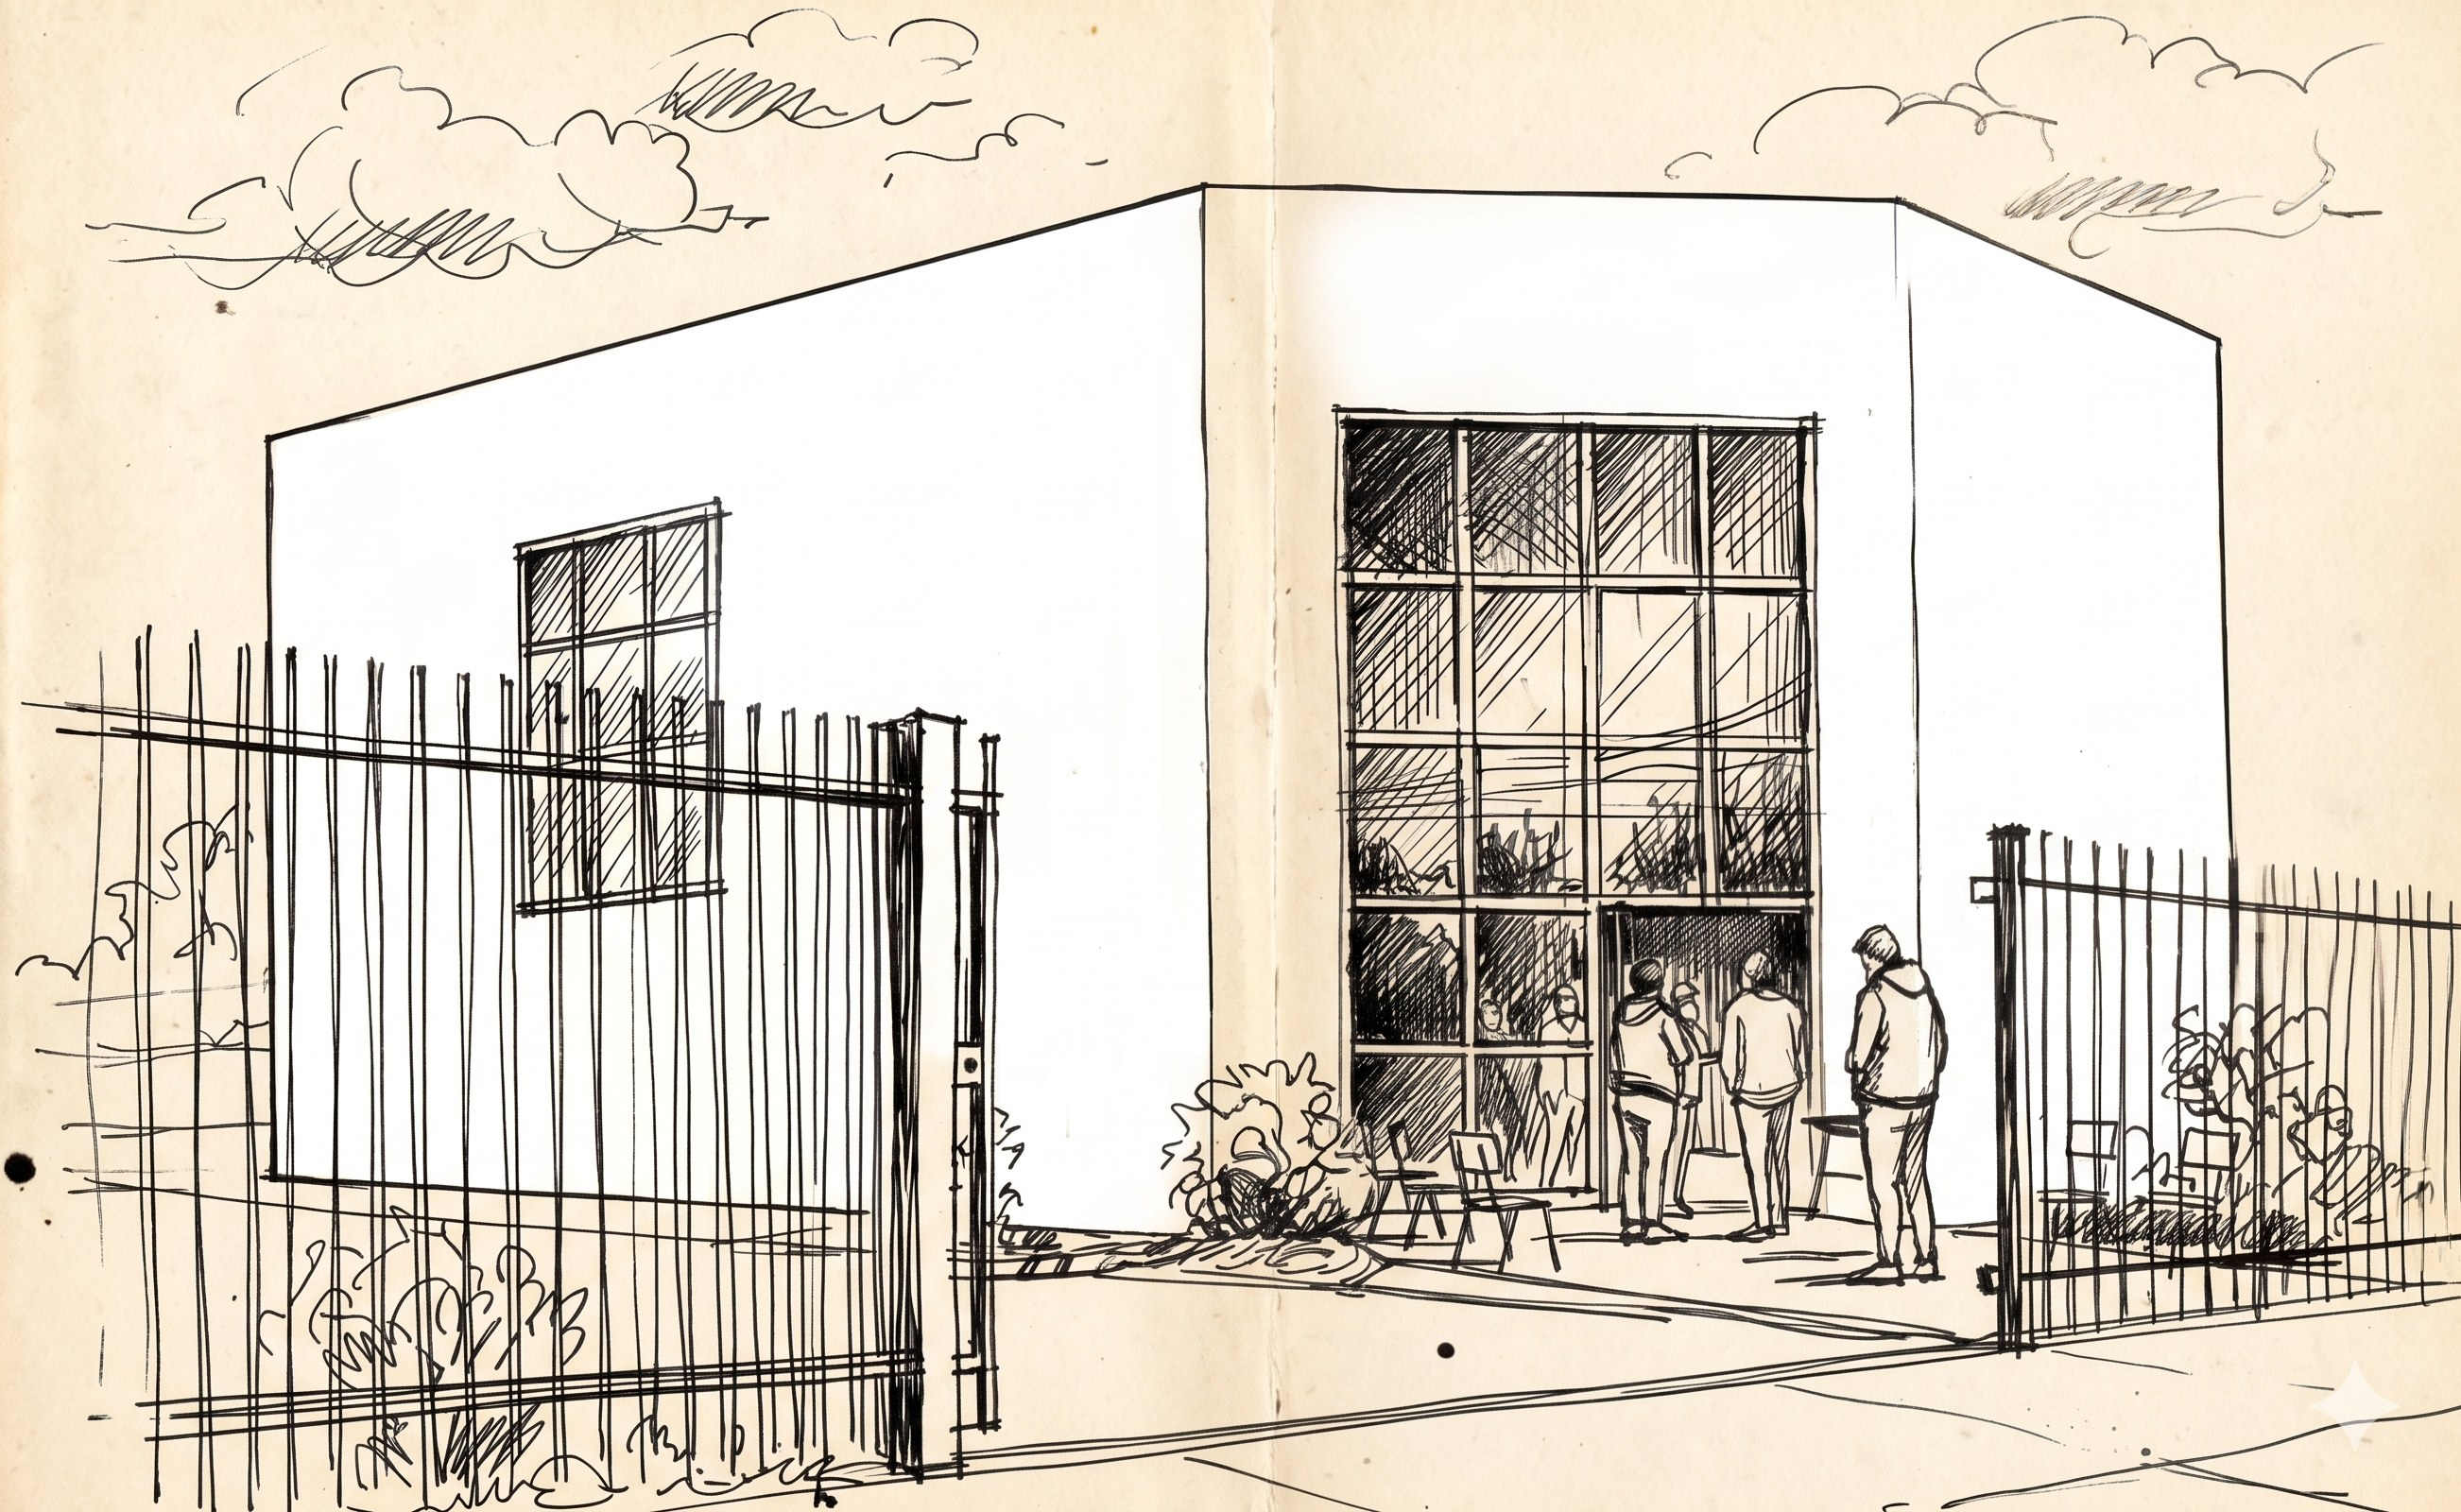
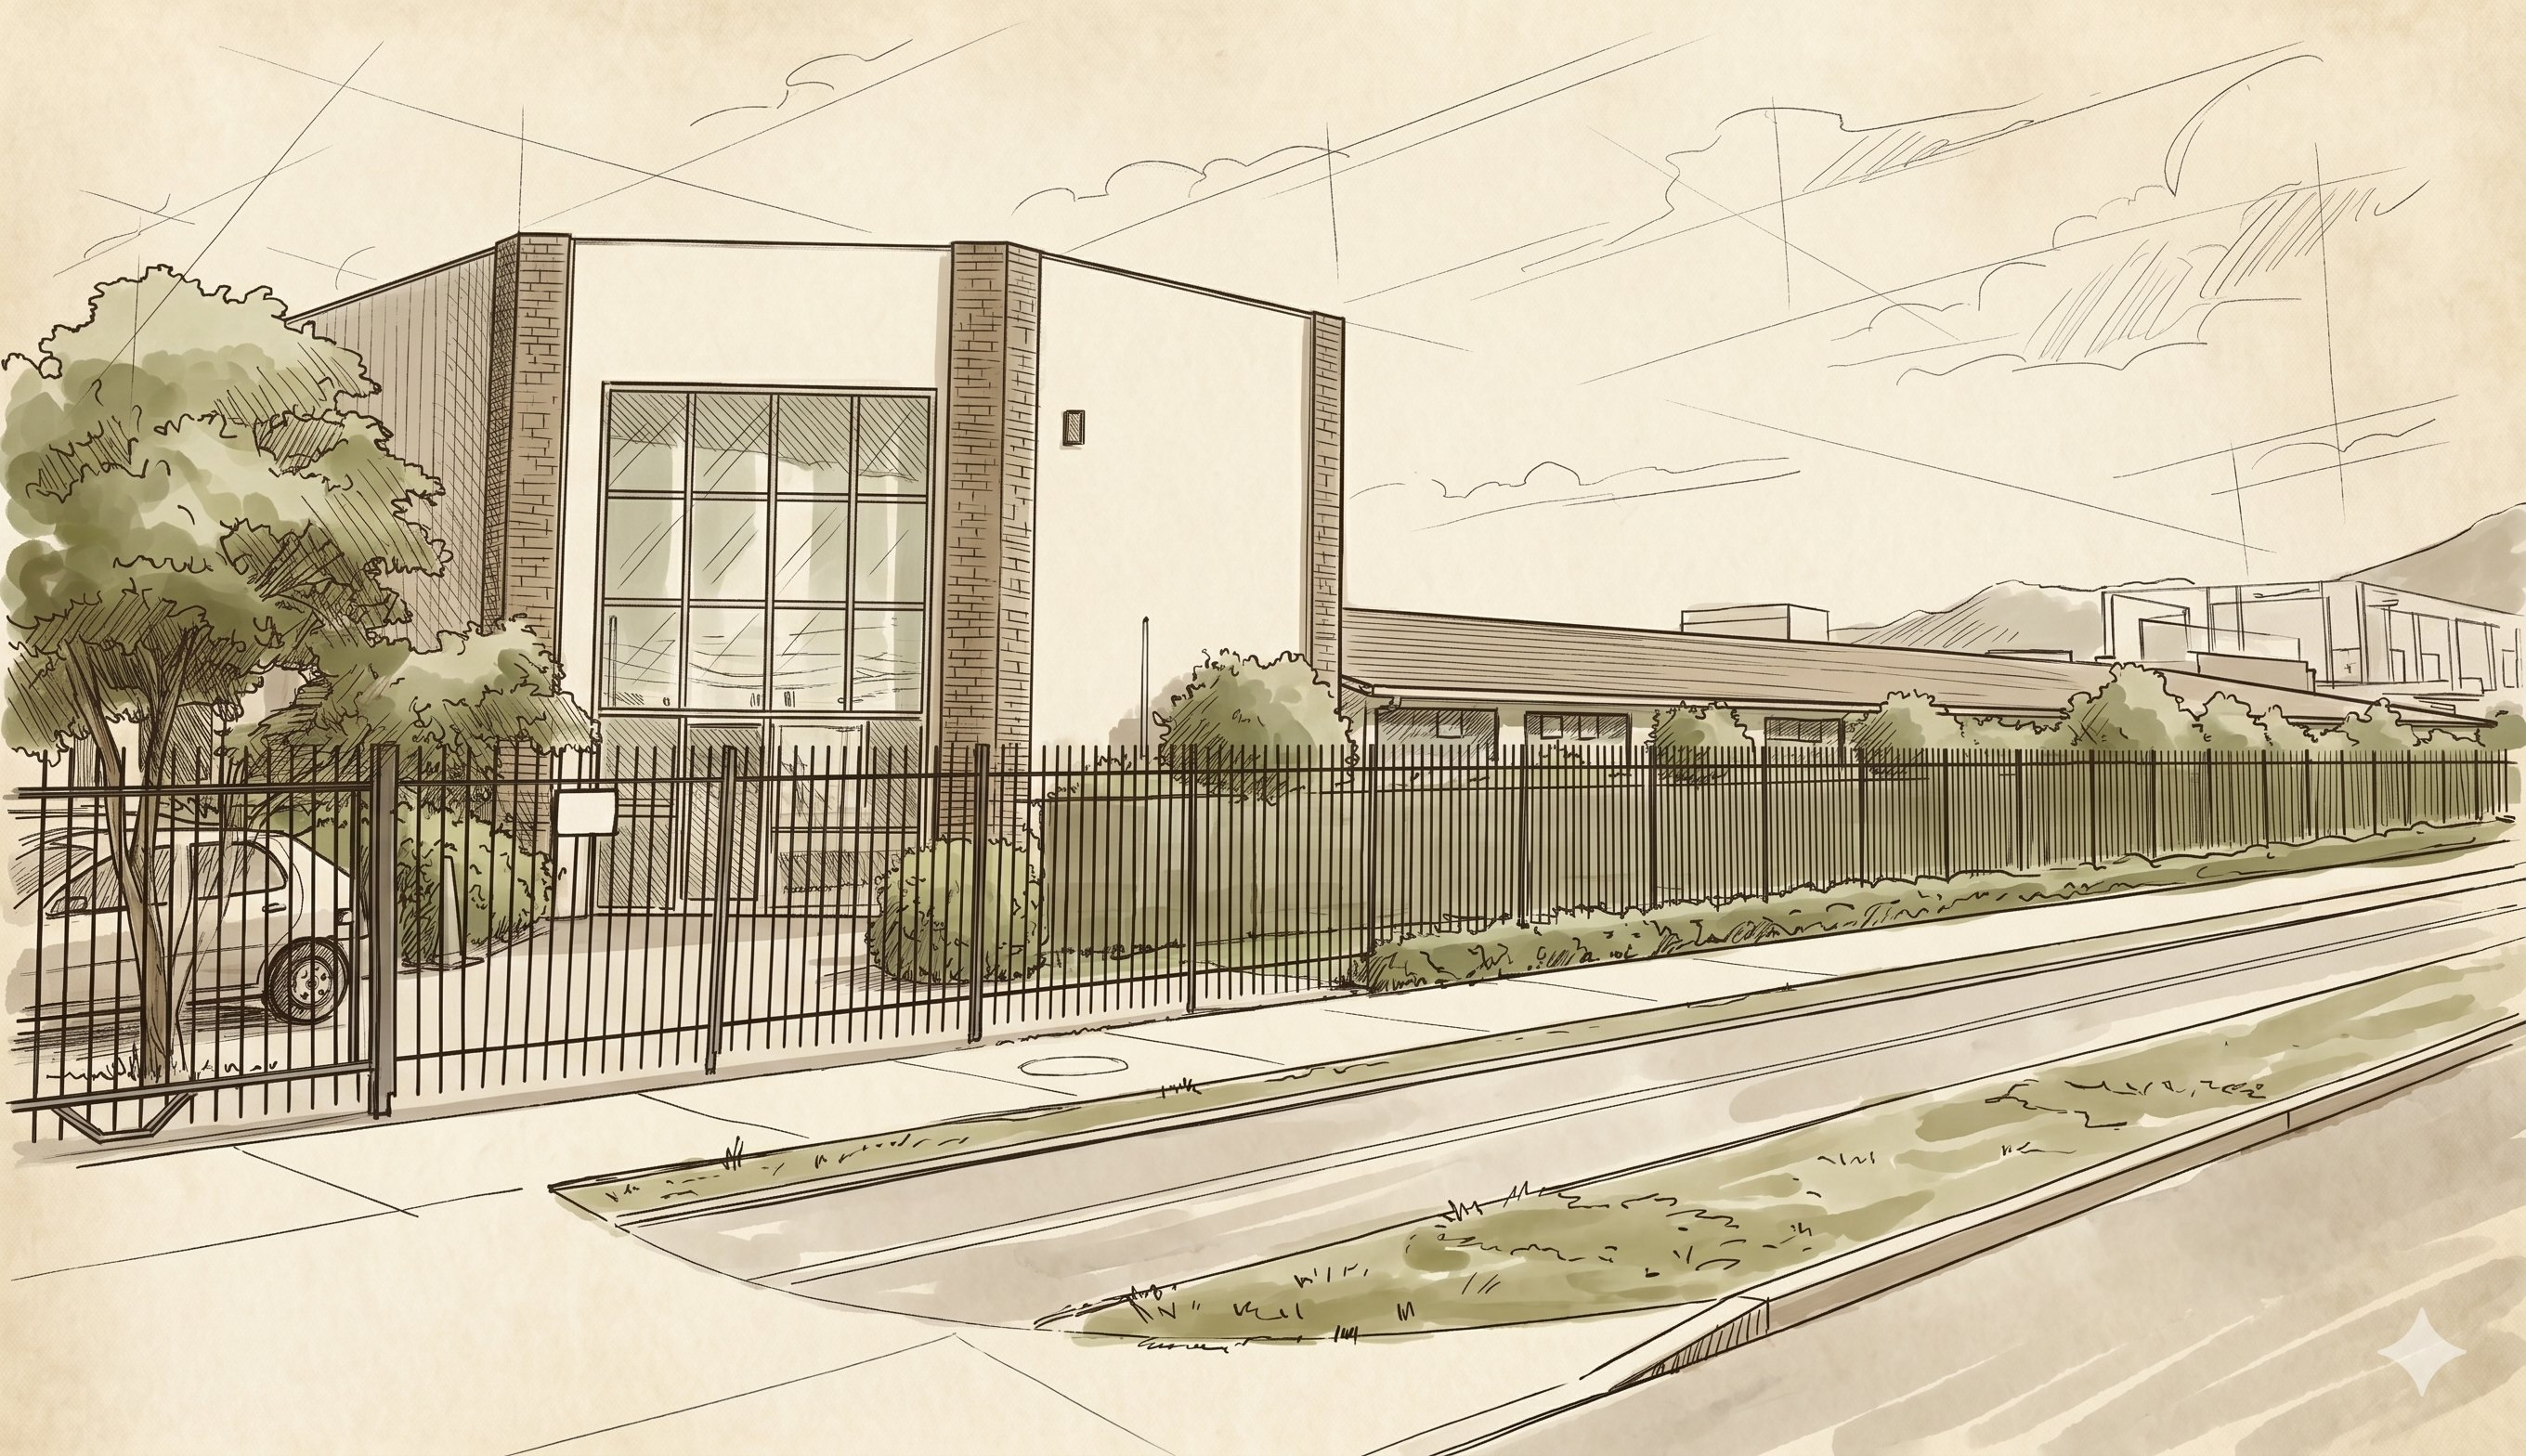
Carrusel incluye todos los colegios y actualiza telefono en contacto

diff --git a/index.html b/index.html
@@ -105,20 +105,25 @@
     <!-- Contenido principal -->
     <div>
         <!-- Hero -->
-        <section id="inicio" class="py-16 bg-slate-50">
+        <section id="inicio" class="py-10 md:py-16">
             <div class="container mx-auto px-4">
-                <div class="grid md:grid-cols-2 gap-12 items-center">
-                    <div class="flex flex-col justify-center">
-                        <h1 class="text-4xl md:text-5xl lg:text-6xl font-serif-title font-bold text-slate-800 mb-4">Construimos Confianza</h1>
+                <div class="grid grid-cols-1 md:grid-cols-4 gap-8 md:gap-12 items-center">
+                    <div class="md:col-span-3">
+                        <h1 class="text-4xl md:text-5xl font-serif-title font-bold text-slate-800 mb-4">Construimos Confianza</h1>
                         <p class="text-xl md:text-2xl mb-8 text-slate-600">Calidad, confianza y diseño a tu medida</p>
                         <a href="#contacto" class="inline-block bg-amber-700 hover:bg-amber-800 text-white font-semibold py-3 px-8 rounded-lg transition duration-300">
                             Solicita tu presupuesto
                         </a>
                     </div>
-                    <div class="hero-carousel">
-                        <div class="hero-slide active" style="background-image: url('assets/images/buin-hero.jpg');"></div>
-                        <div class="hero-slide" style="background-image: url('assets/images/buin-proyecto-1.jpg');"></div>
-                        <div class="hero-slide" style="background-image: url('assets/images/buin-proyecto-3.jpg');"></div>
+                    <div class="md:col-span-1">
+                        <div class="hero-carousel">
+                            <div class="hero-slide active" style="background-image: url('assets/images/buin-hero.jpg');"></div>
+                            <div class="hero-slide" style="background-image: url('assets/images/buin-proyecto-1.jpg');"></div>
+                            <div class="hero-slide" style="background-image: url('assets/images/buin-proyecto-3.jpg');"></div>
+                            <div class="hero-slide" style="background-image: url('assets/images/Colegio 131 Basica Buin.png');"></div>
+                            <div class="hero-slide" style="background-image: url('assets/images/Colegio San Bernardo.png');"></div>
+                            <div class="hero-slide" style="background-image: url('assets/images/Colegio san fernando oriente Buin.png');"></div>
+                        </div>
                     </div>
                 </div>
             </div>
@@ -397,7 +402,7 @@
                 <div>
                     <h4 class="text-lg font-serif-title font-semibold text-white mb-4">Contacto</h4>
                     <p>📍 Chile</p>
-                    <p>📞 +56 9 XXXX XXXX</p>
+                    <p>📞 [phone redacted]</p>
                     <p>✉️ [email redacted]</p>
                 </div>
             </div>